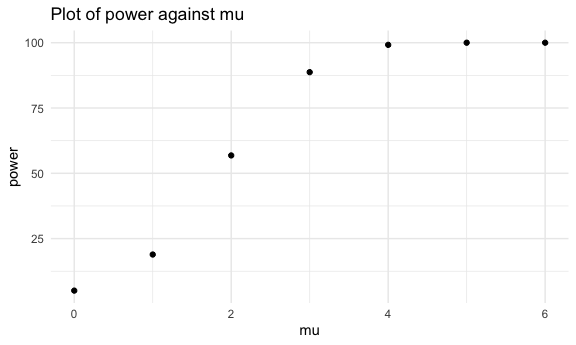
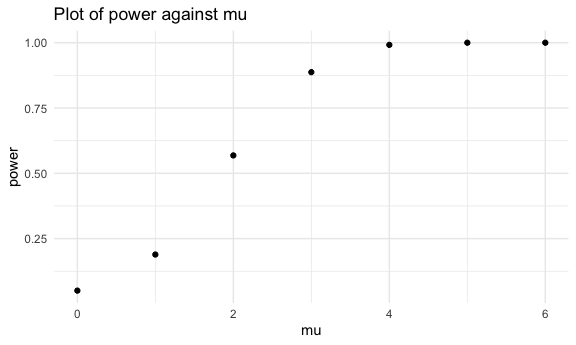
working on overlaid graph for problem 3

diff --git a/p8105_hw5_sdc2157.md b/p8105_hw5_sdc2157.md
@@ -337,7 +337,7 @@ participant_clean <- participant_df |>
   select(id, arm, week, obs)
 ```
 
-Which plot to use?
+Which plot to use? \#Yes use facet
 
 ``` r
 participant_clean |> 
@@ -402,7 +402,7 @@ simul_df |>
     p.value > 0.05 ~ "No")) |>
   group_by(true_mean_u) |>
   count(null_rejected) |> 
-  mutate(prop = n / sum(n)*100) |> 
+  mutate(prop = n / sum(n)) |> 
   filter(null_rejected == "Yes") |> 
   ggplot(aes(x = true_mean_u, y = prop)) +
   geom_point() +
@@ -461,6 +461,33 @@ all + filtered
 
 <img src="p8105_hw5_sdc2157_files/figure-gfm/unnamed-chunk-15-1.png" width="90%" />
 
+``` r
+e <- simul_df |> 
+  select(true_mean_u, estimate, p.value) |> 
+  filter(p.value <= 0.05) |> 
+  group_by(true_mean_u) |> 
+  summarize(avg_estimate_u = mean(estimate))
+
+simul_df |> 
+  select(true_mean_u, estimate) |> 
+  group_by(true_mean_u) |> 
+  summarize(avg_estimate_u = mean(estimate)) |> 
+  ggplot(aes(true_mean_u, avg_estimate_u)) +
+  geom_point() +
+  geom_line() +
+  labs(
+    title = "Plot of avg u_hat against mu",
+    x = "mu",
+    y = "average mu_hat"
+  ) + geom_point(data = e) +
+  geom_line(data = e, color = "red")
+```
+
+<img src="p8105_hw5_sdc2157_files/figure-gfm/unnamed-chunk-15-2.png" width="90%" />
+\# Use the overlaid graph
+
 better fit at higher values. why? greater effect size so more power?
 power - rejecting the null when it is actually false but when we reject
 the null we say it follows a diff distribution so they shouldn’t match?
+
+# So look at the rejected null we would expect the graphs not to overla right b/c we’re rejecting the nully; which we mainly what we see (that’s not the case for 4-6 not sure why)
